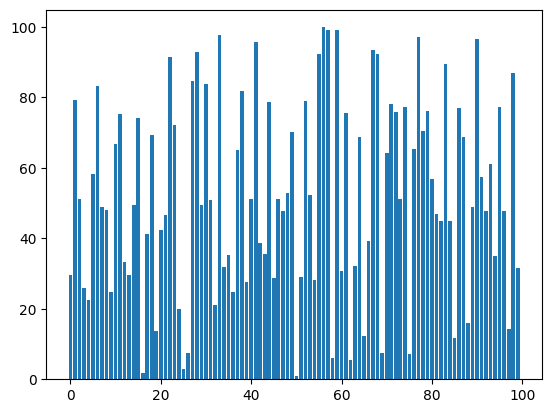
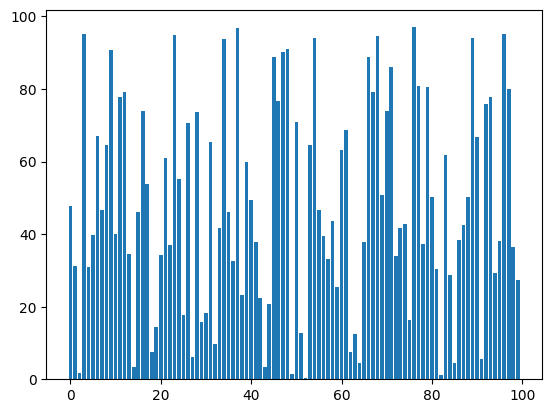
render

diff --git a/docs/fef1002-pythonB.html b/docs/fef1002-pythonB.html
@@ -390,77 +390,77 @@ The <code>if</code> statement, which means IF, is used to control conditions bas
 <tr class="odd">
 <td>np.array()</td>
 <td>Converts list to NumPy array.</td>
-<td>np.array([1, 3, 5, 7]) print(d) # [1, 3, 5, 7]</td>
+<td>np.array([1, 3, 5, 7])<br>print(d)<br># [1, 3, 5, 7]</td>
 </tr>
 <tr class="even">
 <td>np.arange(n)</td>
 <td>Creates an array of numbers from 0 to n (not including n).</td>
-<td>np.arange(5) print(d) # [0 1 2 3 4]</td>
+<td>np.arange(5)<br>print(d)<br># [0 1 2 3 4]</td>
 </tr>
 <tr class="odd">
 <td>np.arange(4, 20, 2)</td>
 <td>Creates an array of consecutive numbers in the specified range (4-20) with increment amount (2).</td>
-<td>np.arange(4, 20, 2) print(d) # [4 6 8 10 12 14 16 18]</td>
+<td>np.arange(4, 20, 2)<br>print(d)<br># [4 6 8 10 12 14 16 18]</td>
 </tr>
 <tr class="even">
 <td>np.linspace(0, 5, n)</td>
 <td>Creates an array of n equally spaced numbers in the specified range (0-5).</td>
-<td>np.linspace(0, 5, 10) print(d) # [0. 0.555 1.11 1.667 2.22 2.778 3.33 3.89 4.44 5.]</td>
+<td>np.linspace(0, 5, 10)<br>print(d)<br># [0. 0.555 1.11 1.667 2.22 2.778 3.33 3.89 4.44 5.]</td>
 </tr>
 <tr class="odd">
 <td>np.logspace(0, 2, n)</td>
 <td>Creates an array of n logarithmic numbers as powers of 10 in the specified range (0-2).</td>
-<td>np.logspace(0, 2, 5) print(d) # [1. 3.16227766 10. 31.6227766 100.]</td>
+<td>np.logspace(0, 2, 5)<br>print(d)<br># [1. 3.16227766 10. 31.6227766 100.]</td>
 </tr>
 <tr class="even">
 <td>np.zeros((n,m), dtype=int)</td>
 <td>Creates an array/matrix of zeros (0) with desired dimensions (n rows, m columns) and type.</td>
-<td>e = np.zeros((2,3)) print(d) # [[0. 0. 0.] [0. 0. 0.]]</td>
+<td>e = np.zeros((2,3))<br>print(d)<br># [[0. 0. 0.] [0. 0. 0.]]</td>
 </tr>
 <tr class="odd">
 <td>np.ones((n,m), dtype=int)</td>
 <td>Creates an array/matrix of ones (1) with desired dimensions (n rows, m columns) and type.</td>
-<td>d = np.ones((2,3), dtype=int) print(d) # [[1 1 1] [1 1 1]]</td>
+<td>d = np.ones((2,3), dtype=int)<br>print(d)<br># [[1 1 1] [1 1 1]]</td>
 </tr>
 <tr class="even">
 <td>np.full((n,m), a)</td>
 <td>Creates an array/matrix filled with value a of desired dimensions (n rows, m columns).</td>
-<td>d = np.full((2,3),6) print(d) # [[6 6 6] [6 6 6]]</td>
+<td>d = np.full((2,3),6)<br>print(d)<br># [[6 6 6] [6 6 6]]</td>
 </tr>
 <tr class="odd">
 <td>np.repeat(a, (n))</td>
 <td>Creates an array of n elements with repeating numbers (a).</td>
-<td>e = np.repeat(3,4) print(e) # [3 3 3 3]</td>
+<td>e = np.repeat(3,4)<br>print(e)<br># [3 3 3 3]</td>
 </tr>
 <tr class="even">
 <td>np.eye(n, dtype=int)</td>
 <td>Creates an n*n identity matrix.</td>
-<td>d = np.eye(3, dtype=int) print(d) # [[1 0 0] [0 1 0] [0 0 1]]</td>
+<td>d = np.eye(3, dtype=int)<br>print(d)<br># [[1 0 0] [0 1 0] [0 0 1]]</td>
 </tr>
 <tr class="odd">
 <td>np.trace(d)</td>
 <td>Returns the trace (sum of diagonals) of a matrix.</td>
-<td>print(np.trace(d)) # 3</td>
+<td>print(np.trace(d))<br># 3</td>
 </tr>
 <tr class="even">
 <td>np.random.rand(n)</td>
 <td>Creates an array of n random (floating-point) numbers between 0-1.</td>
-<td>d = np.random.rand(5) print(d) # [0.12 0.27 0.32 0.41 0.54]</td>
+<td>d = np.random.rand(5)<br>print(d)<br># [0.12 0.27 0.32 0.41 0.54]</td>
 </tr>
 <tr class="odd">
 <td>np.random.rand(n,m)</td>
 <td>Creates an array/matrix of random (floating-point) numbers between 0-1 with n rows, m columns.</td>
-<td>d = np.random.rand((2,3)) print(d) # [[0.54 0.5 0.67] [0.12 0.42 0.99]]</td>
+<td>d = np.random.rand((2,3))<br>print(d)<br># [[0.54 0.5 0.67] [0.12 0.42 0.99]]</td>
 </tr>
 <tr class="even">
 <td>np.random.randint(a,size=n)</td>
 <td>Creates an n-dimensional array of positive integers up to a.</td>
-<td>d=np.random.randint(25,size=3]) print(d) # [9, 15, 7]</td>
+<td>d=np.random.randint(25,size=3])<br>print(d)<br># [9, 15, 7]</td>
 </tr>
 <tr class="odd">
 <td>np.random.randint(a,b, [n,m])</td>
 <td>Creates an n row, m column matrix ([n,m] dimensional matrix) of integers between (a-b).</td>
-<td>d=np.random.randint(1,9,[2,3]) print(d) # [[5 7 6] [7 7 6]]</td>
+<td>d=np.random.randint(1,9,[2,3])<br>print(d)<br># [[5 7 6] [7 7 6]]</td>
 </tr>
 </tbody>
 </table>
@@ -494,97 +494,97 @@ The <code>if</code> statement, which means IF, is used to control conditions bas
 <tr class="odd">
 <td>ndarray.dtype</td>
 <td>Returns the type of the array.</td>
-<td>a=np.arange(6) print(a.dtype) # int32</td>
+<td>a=np.arange(6)<br>print(a.dtype)<br># int32</td>
 </tr>
 <tr class="even">
 <td>ndarray.ndim</td>
 <td>Returns the dimension of the array.</td>
-<td>print(a.ndim) # 1</td>
+<td>print(a.ndim)<br># 1</td>
 </tr>
 <tr class="odd">
 <td>ndarray.shape</td>
 <td>Shows the dimensional shape of the array.</td>
-<td>b=np.zeros((3,7)) print(b.shape) # (3,7)</td>
+<td>b=np.zeros((3,7))<br>print(b.shape)<br># (3,7)</td>
 </tr>
 <tr class="even">
 <td>ndarray.size</td>
 <td>Returns the number of elements (n x m) in the array.</td>
-<td>print(b.size) # 21</td>
+<td>print(b.size)<br># 21</td>
 </tr>
 <tr class="odd">
 <td>ndarray.reshape(n, m) or ndarray.resize((n,m))</td>
 <td>Converts a one-dimensional array into an n row, m column matrix. That is, reshapes the array.</td>
-<td>d = np.arange(6) A = d.reshape(2,3) print(A) # [[0 1 2] [3 4 5]]</td>
+<td>d = np.arange(6)<br>A = d.reshape(2,3)<br>print(A)<br># [[0 1 2] [3 4 5]]</td>
 </tr>
 <tr class="even">
 <td>A.ravel() or A.flat</td>
 <td>Converts matrix A to a one-dimensional array.</td>
-<td>d = A.ravel() #d=[0 1 2 3 4 5]</td>
+<td>d = A.ravel()<br>#d=[0 1 2 3 4 5]</td>
 </tr>
 <tr class="odd">
 <td>A.T or A.transpose()</td>
 <td>Takes the transpose of matrix A. That is, swaps its rows and columns.</td>
-<td>c = A.T print(c) # [[0 3] [1 4] [2 5]]</td>
+<td>c = A.T<br>print(c)<br># [[0 3] [1 4] [2 5]]</td>
 </tr>
 <tr class="even">
 <td>np.mean()</td>
 <td>Returns the average of array elements.</td>
-<td>d = np.array([1,2,3,4]) Avg = d.mean() print(Avg) # 2.5</td>
+<td>d = np.array([1,2,3,4])<br>Avg =d.mean()<br>print(Avg)<br># 2.5</td>
 </tr>
 <tr class="odd">
 <td>np.sum()</td>
 <td>Adds all elements of the array.</td>
-<td>T = d.sum() print(T) # 10</td>
+<td>T = d.sum()<br>print(T)<br># 10</td>
 </tr>
 <tr class="even">
 <td>np.prod()</td>
 <td>Multiplies all elements of the array.</td>
-<td>T = d.prod() print(T) # 24</td>
+<td>T = d.prod()<br>print(T)<br># 24</td>
 </tr>
 <tr class="odd">
 <td>np.cumsum(axis= )</td>
 <td>Performs cumulative addition operation on elements (rows for axis=1) in the given axis.</td>
-<td>d = np.array([[1,2,3],[4,5,6]]) t = d.cumsum(axis=1) print(t) # [[ 1 3 6] [ 4 9 15]]</td>
+<td>d = np.array([[1,2,3],[4,5,6]])<br>t = d.cumsum(axis=1)<br>print(t)<br># [[ 1 3 6] [ 4 9 15]]</td>
 </tr>
 <tr class="even">
 <td>np.cumprod(axis=)</td>
 <td>Performs cumulative multiplication operation on elements (rows for axis=1) in the given axis.</td>
-<td>c = d.cumprod(axis=1) print(c) # [[ 1 2 6] [ 4 20 120]]</td>
+<td>c = d.cumprod(axis=1)<br>print(c)<br># [[ 1 2 6] [ 4 20 120]]</td>
 </tr>
 <tr class="odd">
 <td>ndarray.max(axis= )</td>
 <td>Returns the element with the largest value in the given axis.</td>
-<td>d.max(axis=1) # [3,6] # returns the largest value in each row of matrix d.</td>
+<td>d.max(axis=1)<br># [3,6]<br># returns the largest value in each row of matrix d.</td>
 </tr>
 <tr class="even">
 <td>ndarray.min(axis= )</td>
 <td>Returns the element with the smallest value in the given axis.</td>
-<td>d.min(axis=1) #[1,4] # returns the smallest value in each row of matrix d.</td>
+<td>d.min(axis=1)<br>#[1,4]<br># returns the smallest value in each row of matrix d.</td>
 </tr>
 <tr class="odd">
 <td>ndarray.argmax(axis=)</td>
 <td>Returns the index number of the element with the largest value in the given axis.</td>
-<td>d.argmax(axis=1) #[2,2] # returns the index number of the largest value in each row of matrix d.</td>
+<td>d.argmax(axis=1)<br>#[2,2] # returns the index number of the largest value in each row of matrix d.</td>
 </tr>
 <tr class="even">
 <td>ndarray.argmin(axis=)</td>
 <td>Returns the index number of the element with the smallest value in the given axis.</td>
-<td>d.argmin(axis=1) #[2,2] # returns the index number of the largest value in each row of matrix d.</td>
+<td>d.argmin(axis=1)<br>#[2,2]<br># returns the index number of the largest value in each row of matrix d.</td>
 </tr>
 <tr class="odd">
 <td>np.add()</td>
 <td>Adds two arrays / matrices.</td>
-<td>T = np.add(d,t) print(T) #[[ 2 5 9] [ 8 14 21]]</td>
+<td>T = np.add(d,t)<br>print(T)<br>#[[ 2 5 9] [ 8 14 21]]</td>
 </tr>
 <tr class="even">
 <td>np.copy()</td>
 <td>Copies all elements of the array to another array.</td>
-<td>C = np.copy(T) print(C) #[[ 2 5 9] [ 8 14 21]]</td>
+<td>C = np.copy(T)<br>print(C)<br>#[[ 2 5 9] [ 8 14 21]]</td>
 </tr>
 <tr class="odd">
 <td>np.sort()</td>
 <td>Sorts the elements of the array.</td>
-<td>S=np.array([[20, 40, 4.56], [5, 77, 0.17]]) print(np.sort(S), np.sort(S.T), sep=“” )</td>
+<td>S=np.array([[20, 40, 4.56], [5, 77, 0.17]])<br>print(np.sort(S), np.sort(S.T), sep=“” )</td>
 </tr>
 </tbody>
 </table>
@@ -876,18 +876,12 @@ dict_values([20, 10, 40, 30])</code></pre>
 </div>
 </div>
 </div>
-<div id="3945bbe6-9a2c-44ab-b80e-704c3a69b1ae" class="cell" data-execution_count="23">
+<div id="3945bbe6-9a2c-44ab-b80e-704c3a69b1ae" class="cell" data-execution_count="33">
 <div class="sourceCode cell-code" id="cb31"><pre class="sourceCode python code-with-copy"><code class="sourceCode python"><span id="cb31-1"><a href="#cb31-1" aria-hidden="true" tabindex="-1"></a>data<span class="op">=</span>np.random.random(size<span class="op">=</span><span class="dv">100</span>)<span class="op">*</span><span class="dv">100</span></span>
 <span id="cb31-2"><a href="#cb31-2" aria-hidden="true" tabindex="-1"></a>data</span>
 <span id="cb31-3"><a href="#cb31-3" aria-hidden="true" tabindex="-1"></a>x_axis<span class="op">=</span>np.arange(<span class="dv">100</span>)</span>
 <span id="cb31-4"><a href="#cb31-4" aria-hidden="true" tabindex="-1"></a>plt.bar(x_axis, data)</span>
-<span id="cb31-5"><a href="#cb31-5" aria-hidden="true" tabindex="-1"></a>plt.show()</span>
-<span id="cb31-6"><a href="#cb31-6" aria-hidden="true" tabindex="-1"></a></span>
-<span id="cb31-7"><a href="#cb31-7" aria-hidden="true" tabindex="-1"></a>data<span class="op">=</span>np.random.random(size<span class="op">=</span><span class="dv">10</span>)<span class="op">*</span><span class="dv">100</span></span>
-<span id="cb31-8"><a href="#cb31-8" aria-hidden="true" tabindex="-1"></a>data</span>
-<span id="cb31-9"><a href="#cb31-9" aria-hidden="true" tabindex="-1"></a>height<span class="op">=</span>np.arange(<span class="dv">10</span>)</span>
-<span id="cb31-10"><a href="#cb31-10" aria-hidden="true" tabindex="-1"></a>plt.barh(data, height)</span>
-<span id="cb31-11"><a href="#cb31-11" aria-hidden="true" tabindex="-1"></a>plt.show()</span></code><button title="Copy to Clipboard" class="code-copy-button"><i class="bi"></i></button></pre></div>
+<span id="cb31-5"><a href="#cb31-5" aria-hidden="true" tabindex="-1"></a>plt.show()</span></code><button title="Copy to Clipboard" class="code-copy-button"><i class="bi"></i></button></pre></div>
 <div class="cell-output cell-output-display">
 <div>
 <figure class="figure">
@@ -895,22 +889,13 @@ dict_values([20, 10, 40, 30])</code></pre>
 </figure>
 </div>
 </div>
-<div class="cell-output cell-output-display">
-<div>
-<figure class="figure">
-<p><img src="fef1002-pythonB_files/figure-html/cell-31-output-2.png" class="img-fluid figure-img"></p>
-</figure>
 </div>
-</div>
-</div>
-<p><strong>4. Scatter Plot:</strong> Scatter plots are used to see if there is a correlation between values on the axes.</p>
-<div id="0a3c2fc2-94b7-4259-8210-cfcc4f66bdd9" class="cell" data-execution_count="24">
-<div class="sourceCode cell-code" id="cb32"><pre class="sourceCode python code-with-copy"><code class="sourceCode python"><span id="cb32-1"><a href="#cb32-1" aria-hidden="true" tabindex="-1"></a><span class="co">#Drawing scatter plot</span></span>
-<span id="cb32-2"><a href="#cb32-2" aria-hidden="true" tabindex="-1"></a>ages<span class="op">=</span>[<span class="fl">3.5</span>, <span class="fl">2.5</span>, <span class="fl">1.5</span>, <span class="dv">5</span>, <span class="dv">4</span>, <span class="dv">1</span>, <span class="dv">2</span>, <span class="dv">3</span>, <span class="fl">4.5</span>, <span class="dv">2</span>]</span>
-<span id="cb32-3"><a href="#cb32-3" aria-hidden="true" tabindex="-1"></a>words<span class="op">=</span>[<span class="dv">45</span>, <span class="dv">30</span>, <span class="dv">10</span>, <span class="dv">100</span>, <span class="dv">80</span>, <span class="dv">3</span>, <span class="dv">35</span>, <span class="dv">55</span>, <span class="dv">67</span>, <span class="dv">15</span>]</span>
-<span id="cb32-4"><a href="#cb32-4" aria-hidden="true" tabindex="-1"></a>scatter<span class="op">=</span>plt.scatter(ages, words, c<span class="op">=</span>ages, s<span class="op">=</span>np.array(words)<span class="op">*</span><span class="dv">10</span>)</span>
-<span id="cb32-5"><a href="#cb32-5" aria-hidden="true" tabindex="-1"></a>plt.colorbar(scatter)</span>
-<span id="cb32-6"><a href="#cb32-6" aria-hidden="true" tabindex="-1"></a>plt.show()</span></code><button title="Copy to Clipboard" class="code-copy-button"><i class="bi"></i></button></pre></div>
+<div id="c924dfc7-a7da-4b3a-8fe1-5a2744a4d844" class="cell" data-execution_count="34">
+<div class="sourceCode cell-code" id="cb32"><pre class="sourceCode python code-with-copy"><code class="sourceCode python"><span id="cb32-1"><a href="#cb32-1" aria-hidden="true" tabindex="-1"></a>data<span class="op">=</span>np.random.random(size<span class="op">=</span><span class="dv">10</span>)<span class="op">*</span><span class="dv">100</span></span>
+<span id="cb32-2"><a href="#cb32-2" aria-hidden="true" tabindex="-1"></a>data</span>
+<span id="cb32-3"><a href="#cb32-3" aria-hidden="true" tabindex="-1"></a>height<span class="op">=</span>np.arange(<span class="dv">10</span>)</span>
+<span id="cb32-4"><a href="#cb32-4" aria-hidden="true" tabindex="-1"></a>plt.barh(data, height)</span>
+<span id="cb32-5"><a href="#cb32-5" aria-hidden="true" tabindex="-1"></a>plt.show()</span></code><button title="Copy to Clipboard" class="code-copy-button"><i class="bi"></i></button></pre></div>
 <div class="cell-output cell-output-display">
 <div>
 <figure class="figure">
@@ -919,17 +904,33 @@ dict_values([20, 10, 40, 30])</code></pre>
 </div>
 </div>
 </div>
-<p><strong>5. Histogram:</strong> Histograms are used to show data distribution.</p>
-<div id="c5bd86a0-215f-455e-b550-713f381eb549" class="cell" data-execution_count="25">
-<div class="sourceCode cell-code" id="cb33"><pre class="sourceCode python code-with-copy"><code class="sourceCode python"><span id="cb33-1"><a href="#cb33-1" aria-hidden="true" tabindex="-1"></a><span class="co">#Histogram</span></span>
-<span id="cb33-2"><a href="#cb33-2" aria-hidden="true" tabindex="-1"></a>hist_data<span class="op">=</span>np.random.normal(size<span class="op">=</span><span class="dv">1000</span>)</span>
-<span id="cb33-3"><a href="#cb33-3" aria-hidden="true" tabindex="-1"></a>hist_data</span>
-<span id="cb33-4"><a href="#cb33-4" aria-hidden="true" tabindex="-1"></a>plt.hist(hist_data, bins<span class="op">=</span><span class="dv">50</span>)</span>
-<span id="cb33-5"><a href="#cb33-5" aria-hidden="true" tabindex="-1"></a>plt.show()</span></code><button title="Copy to Clipboard" class="code-copy-button"><i class="bi"></i></button></pre></div>
+<p><strong>4. Scatter Plot:</strong> Scatter plots are used to see if there is a correlation between values on the axes.</p>
+<div id="0a3c2fc2-94b7-4259-8210-cfcc4f66bdd9" class="cell" data-execution_count="24">
+<div class="sourceCode cell-code" id="cb33"><pre class="sourceCode python code-with-copy"><code class="sourceCode python"><span id="cb33-1"><a href="#cb33-1" aria-hidden="true" tabindex="-1"></a><span class="co">#Drawing scatter plot</span></span>
+<span id="cb33-2"><a href="#cb33-2" aria-hidden="true" tabindex="-1"></a>ages<span class="op">=</span>[<span class="fl">3.5</span>, <span class="fl">2.5</span>, <span class="fl">1.5</span>, <span class="dv">5</span>, <span class="dv">4</span>, <span class="dv">1</span>, <span class="dv">2</span>, <span class="dv">3</span>, <span class="fl">4.5</span>, <span class="dv">2</span>]</span>
+<span id="cb33-3"><a href="#cb33-3" aria-hidden="true" tabindex="-1"></a>words<span class="op">=</span>[<span class="dv">45</span>, <span class="dv">30</span>, <span class="dv">10</span>, <span class="dv">100</span>, <span class="dv">80</span>, <span class="dv">3</span>, <span class="dv">35</span>, <span class="dv">55</span>, <span class="dv">67</span>, <span class="dv">15</span>]</span>
+<span id="cb33-4"><a href="#cb33-4" aria-hidden="true" tabindex="-1"></a>scatter<span class="op">=</span>plt.scatter(ages, words, c<span class="op">=</span>ages, s<span class="op">=</span>np.array(words)<span class="op">*</span><span class="dv">10</span>)</span>
+<span id="cb33-5"><a href="#cb33-5" aria-hidden="true" tabindex="-1"></a>plt.colorbar(scatter)</span>
+<span id="cb33-6"><a href="#cb33-6" aria-hidden="true" tabindex="-1"></a>plt.show()</span></code><button title="Copy to Clipboard" class="code-copy-button"><i class="bi"></i></button></pre></div>
 <div class="cell-output cell-output-display">
 <div>
 <figure class="figure">
 <p><img src="fef1002-pythonB_files/figure-html/cell-33-output-1.png" class="img-fluid figure-img"></p>
+</figure>
+</div>
+</div>
+</div>
+<p><strong>5. Histogram:</strong> Histograms are used to show data distribution.</p>
+<div id="c5bd86a0-215f-455e-b550-713f381eb549" class="cell" data-execution_count="25">
+<div class="sourceCode cell-code" id="cb34"><pre class="sourceCode python code-with-copy"><code class="sourceCode python"><span id="cb34-1"><a href="#cb34-1" aria-hidden="true" tabindex="-1"></a><span class="co">#Histogram</span></span>
+<span id="cb34-2"><a href="#cb34-2" aria-hidden="true" tabindex="-1"></a>hist_data<span class="op">=</span>np.random.normal(size<span class="op">=</span><span class="dv">1000</span>)</span>
+<span id="cb34-3"><a href="#cb34-3" aria-hidden="true" tabindex="-1"></a>hist_data</span>
+<span id="cb34-4"><a href="#cb34-4" aria-hidden="true" tabindex="-1"></a>plt.hist(hist_data, bins<span class="op">=</span><span class="dv">50</span>)</span>
+<span id="cb34-5"><a href="#cb34-5" aria-hidden="true" tabindex="-1"></a>plt.show()</span></code><button title="Copy to Clipboard" class="code-copy-button"><i class="bi"></i></button></pre></div>
+<div class="cell-output cell-output-display">
+<div>
+<figure class="figure">
+<p><img src="fef1002-pythonB_files/figure-html/cell-34-output-1.png" class="img-fluid figure-img"></p>
 </figure>
 </div>
 </div>
